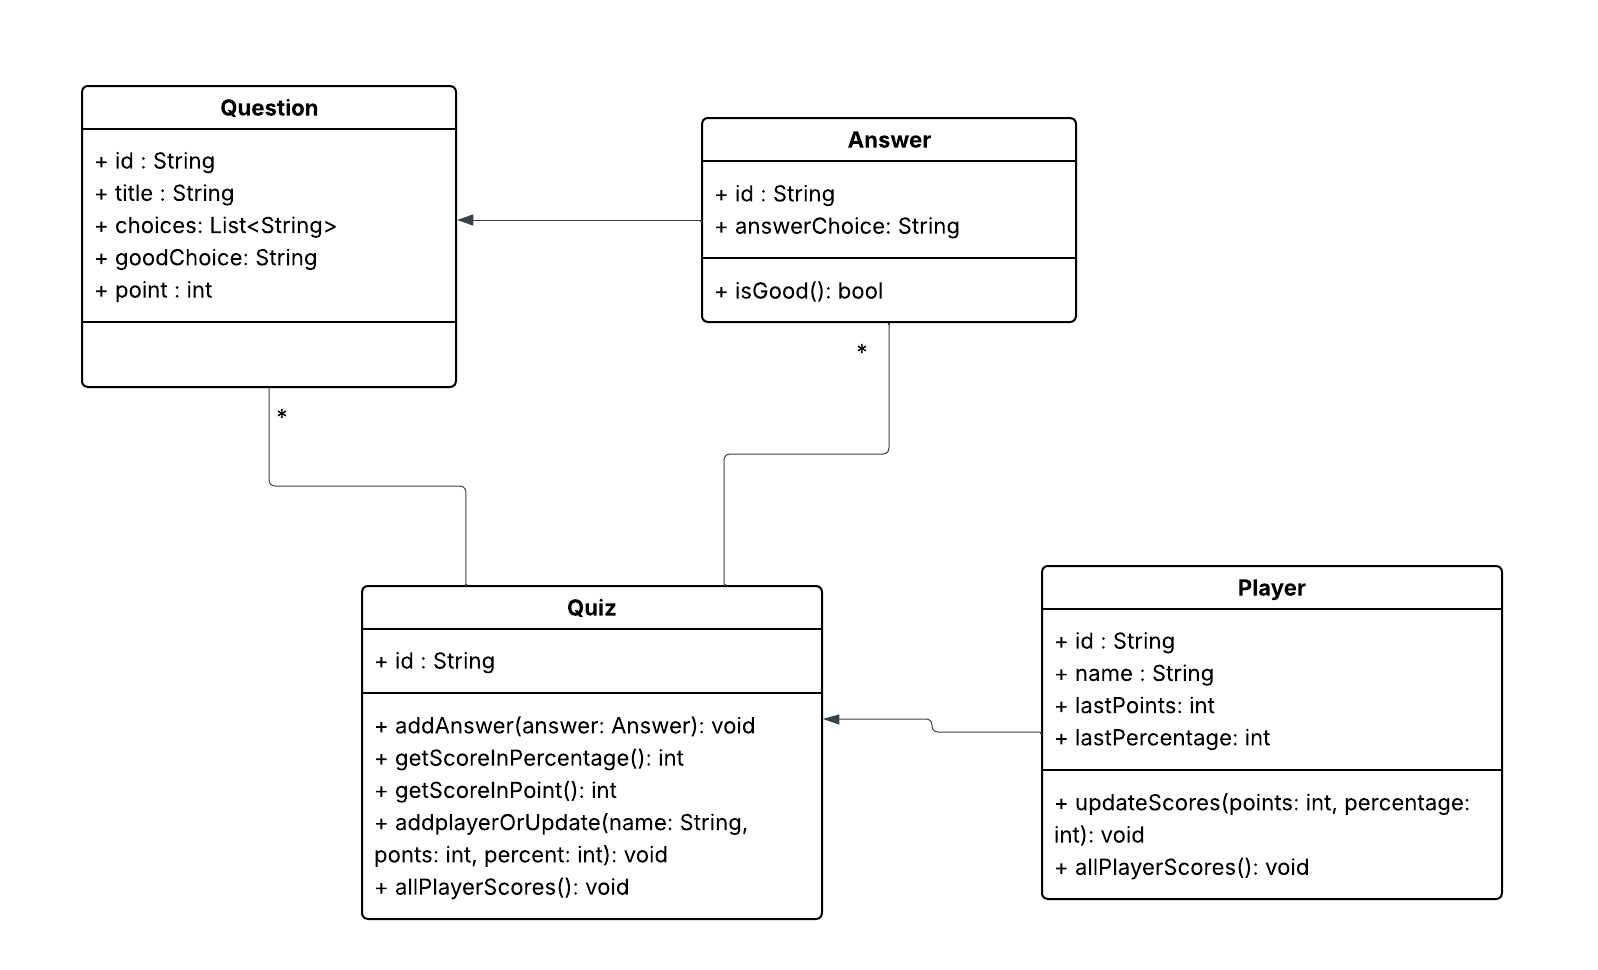
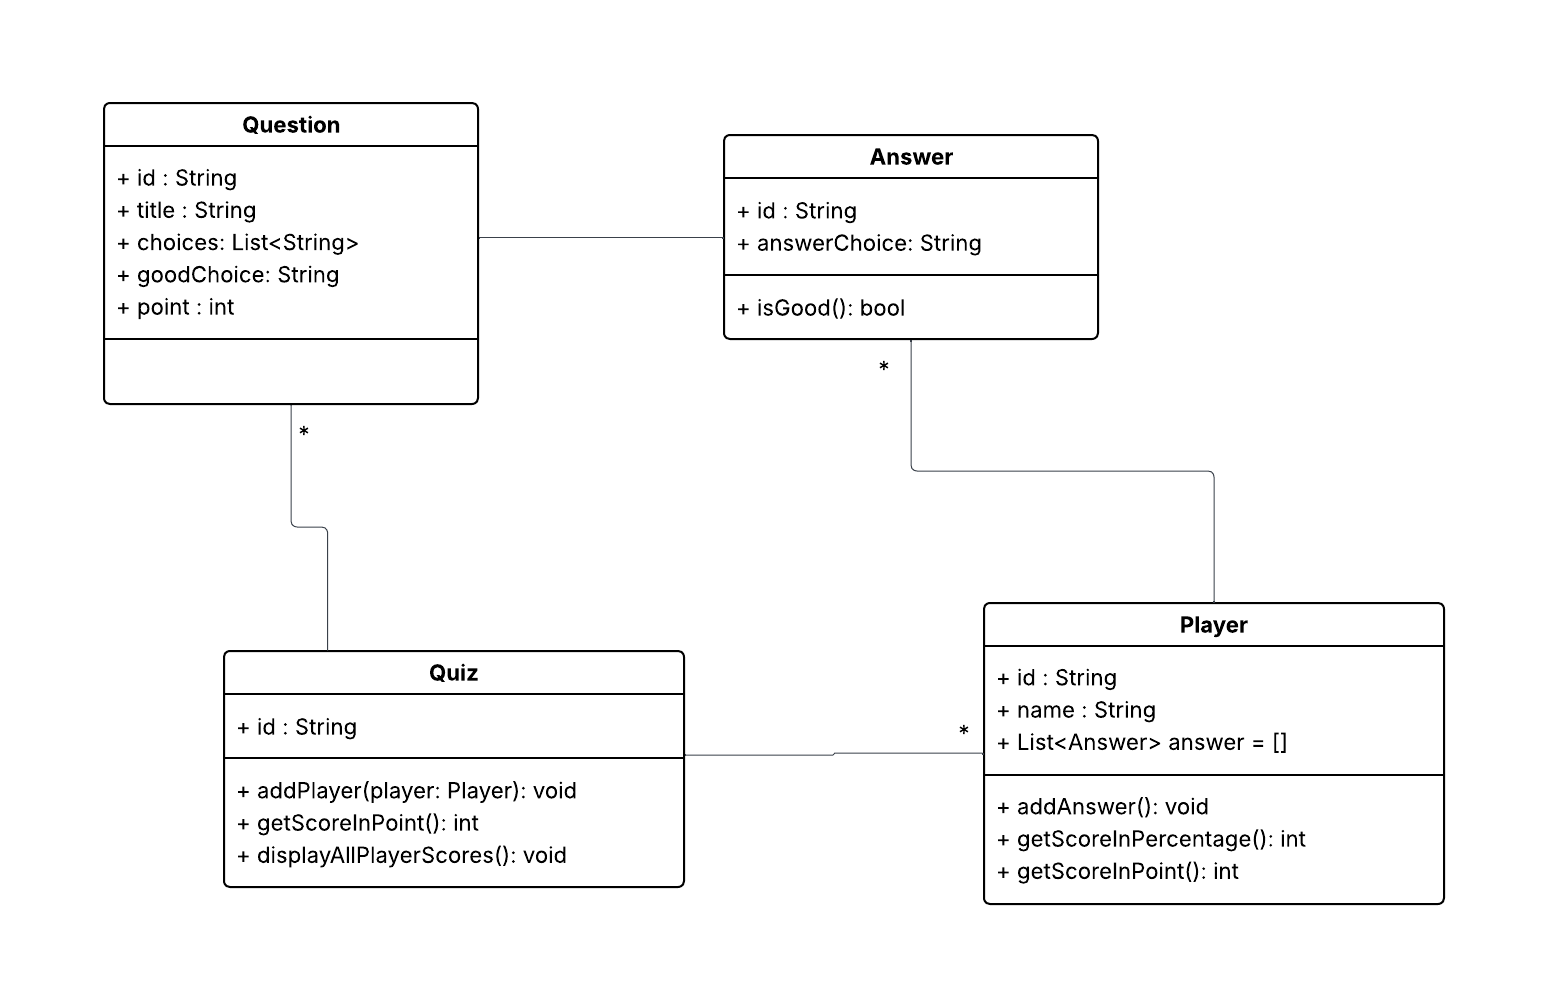
Update

diff --git a/lib/domain/quiz.dart b/lib/domain/quiz.dart
@@ -15,7 +15,6 @@ class Question {
       required this.goodChoice,
       this.point = 1})
       : id = id ?? Uuid().v4();
-
 }
 
 class Answer {
@@ -29,29 +28,26 @@ class Answer {
   bool isGood() {
     return this.answerChoice == question.goodChoice;
   }
-
 }
 
-class Quiz {
+class Player {
   final String id;
-  List<Question> questions;
+  final String name;
   List<Answer> answers = [];
-  List<Player> players = [];
+  Player({String? id, required this.name}) : id = id ?? const Uuid().v4();
 
-  Quiz({String? id, required this.questions}) : id = id ?? const Uuid().v4();
-
-  void addAnswer(Answer asnwer) {
-    this.answers.add(asnwer);
+  void addAnswer(Answer answer) {
+    answers.add(answer);
   }
 
   int getScoreInPercentage() {
-    int totalSCore = 0;
+    int totalScore = 0;
     for (Answer answer in answers) {
       if (answer.isGood()) {
-        totalSCore++;
+        totalScore++;
       }
     }
-    return ((totalSCore / questions.length) * 100).toInt();
+    return answers.isEmpty ? 0 : ((totalScore / answers.length) * 100).toInt();
   }
 
   int getScoreInPoint() {
@@ -64,55 +60,37 @@ class Quiz {
     return totalPoint;
   }
 
-  void addPlayerOrUpdate(String name, int points, int percent) {
-    Player? oldPlayer;
-    for (var player in players) {
-      if (player.name == name) {
-        oldPlayer = player;
-        break;
+  @override
+  String toString() {
+    return '$name: ${getScoreInPoint()} points ${getScoreInPercentage()}%';
+  }
+}
+
+class Quiz {
+  final String id;
+  List<Question> questions;
+  List<Player> players = [];
+
+  Quiz({String? id, required this.questions}) : id = id ?? const Uuid().v4();
+
+  void addPlayer(Player player) {
+    // Find if player already exists and update their answers
+    for (Player p in players) {
+      if (p.name.toLowerCase() == player.name.toLowerCase()) {
+        p.answers = player.answers;
+        return;
       }
     }
-    if (oldPlayer != null) {
-      oldPlayer.updateScores(points, percent);
-    } else {
-      Player newPlayer =
-          Player(name: name, lastPoints: points, lastPercentage: percent);
-      players.add(newPlayer);
-    }
+    // If not found, add new player
+    players.add(player);
   }
-
-  void allPlayerScores() {
+  void displayAllPlayerScores() {
     if (players.isEmpty) {
-      print('No player yet');
+      print('No players yet');
       return;
     }
     for (var player in players) {
-      print('Player : $player');
+      print('Player: $player');
     }
-  }
-
-}
-
-class Player {
-  final String id;
-  final String name;
-  int lastPoints;
-  int lastPercentage;
-
-  Player(
-      {String? id,
-      required this.name,
-      this.lastPoints = 0,
-      this.lastPercentage = 0})
-      : id = id ?? const Uuid().v4();
-
-  void updateScores(int points, int percentage) {
-    lastPoints = points;
-    lastPercentage = percentage;
-  }
-
-  @override
-  String toString() {
-    return '$name: $lastPoints points $lastPercentage%';
   }
 }

diff --git a/lib/ui/quiz_console.dart b/lib/ui/quiz_console.dart
@@ -1,14 +1,11 @@
 import 'dart:io';
-
 import '../domain/quiz.dart';
 import '../data/quiz_file_provider.dart';
-
 
 class QuizConsole {
   Quiz quiz;
 
   QuizConsole({required this.quiz});
-
 
   void startQuiz() {
     print('--- Welcome to the Quiz ---\n');
@@ -18,35 +15,35 @@ class QuizConsole {
       String? nameInput = stdin.readLineSync()?.trim();
       if (nameInput == null || nameInput.isEmpty) {
         print('--- Quiz Finished ---');
-        quiz.allPlayerScores();
-       break;
-      } 
-      quiz.answers.clear();
-    
-        for (var question in quiz.questions) {
-          print('Question: ${question.title} - (${question.point} point)');
-          print('Choices: ${question.choices}');
-          stdout.write('Your answer: ');
-          String? userInput = stdin.readLineSync();
+        quiz.displayAllPlayerScores();
+        break;
+      }
+      // quiz.answers.clear();
+      Player currentPlayer = Player(name: nameInput);
 
-          if (userInput != null && userInput.isNotEmpty) {
-            Answer answer = Answer(question: question, answerChoice: userInput);
-            quiz.addAnswer(answer);
-          } else {
-            print('No answer entered. Skipping question.');
-          }
+      for (var question in quiz.questions) {
+        print('Question: ${question.title} - (${question.point} point)');
+        print('Choices: ${question.choices}');
+        stdout.write('Your answer: ');
+        String? userInput = stdin.readLineSync();
 
-          print('');
+        if (userInput != null && userInput.isNotEmpty) {
+          Answer answer = Answer(question: question, answerChoice: userInput);
+          currentPlayer.addAnswer(answer);
+        } else {
+          print('No answer entered. Skipping question.');
         }
-        int score = quiz.getScoreInPercentage();
-        int myPoint = quiz.getScoreInPoint();
-        // print('--- Quiz Finished ---');
-        quiz.addPlayerOrUpdate(nameInput, myPoint, score);
-        print('\n--- Quiz Completed ---');
-        print('Your score in percentage: $score % ');
-        print('Your score in point: $myPoint ');
-        quiz.allPlayerScores();
-      
+
+        print('');
+      }
+      int score = currentPlayer.getScoreInPercentage();
+      int myPoint = currentPlayer.getScoreInPoint();
+      // print('--- Quiz Finished ---');
+      quiz.addPlayer(currentPlayer);
+      print('\n--- Quiz Completed ---');
+      print('Your score in percentage: $score % ');
+      print('Your score in point: $myPoint ');
+      quiz.displayAllPlayerScores();
     }
   }
 }

diff --git a/test/quiz_test.dart b/test/quiz_test.dart
@@ -15,14 +15,19 @@ main() {
       Question(title: "4+2", choices: ["1", "2", "3"], goodChoice: "6", point: 50);
   Quiz quizs = Quiz(questions: [q1, q2]);
   test('test1', () {
-    quizs.addAnswer(Answer(question: q1, answerChoice: '2'));
-    quizs.addAnswer(Answer(question: q2, answerChoice: '6'));
-    expect(quizs.getScoreInPercentage(), equals(100));
-    expect(quizs.getScoreInPoint(), equals(60));
+    Player player = Player(name: "TestPlayer");
+    player.addAnswer(Answer(question: q1, answerChoice: '2'));
+    player.addAnswer(Answer(question: q2, answerChoice: '6'));
+    
+    expect(player.getScoreInPercentage(), equals(100));
+    expect(player.getScoreInPoint(), equals(60));
   });
   test('test2', () {
-    quizs.addAnswer(Answer(question: q1, answerChoice: '2'));
-    quizs.addAnswer(Answer(question: q2, answerChoice: '8'));
-    expect(quizs.getScoreInPercentage(), equals(150));
+    Player player = Player(name: "TestPlayer");
+    player.addAnswer(Answer(question: q1, answerChoice: '2'));
+    player.addAnswer(Answer(question: q2, answerChoice: '8'));
+    
+    expect(player.getScoreInPercentage(), equals(50)); 
+    expect(player.getScoreInPoint(), equals(10)); 
   });
 }
